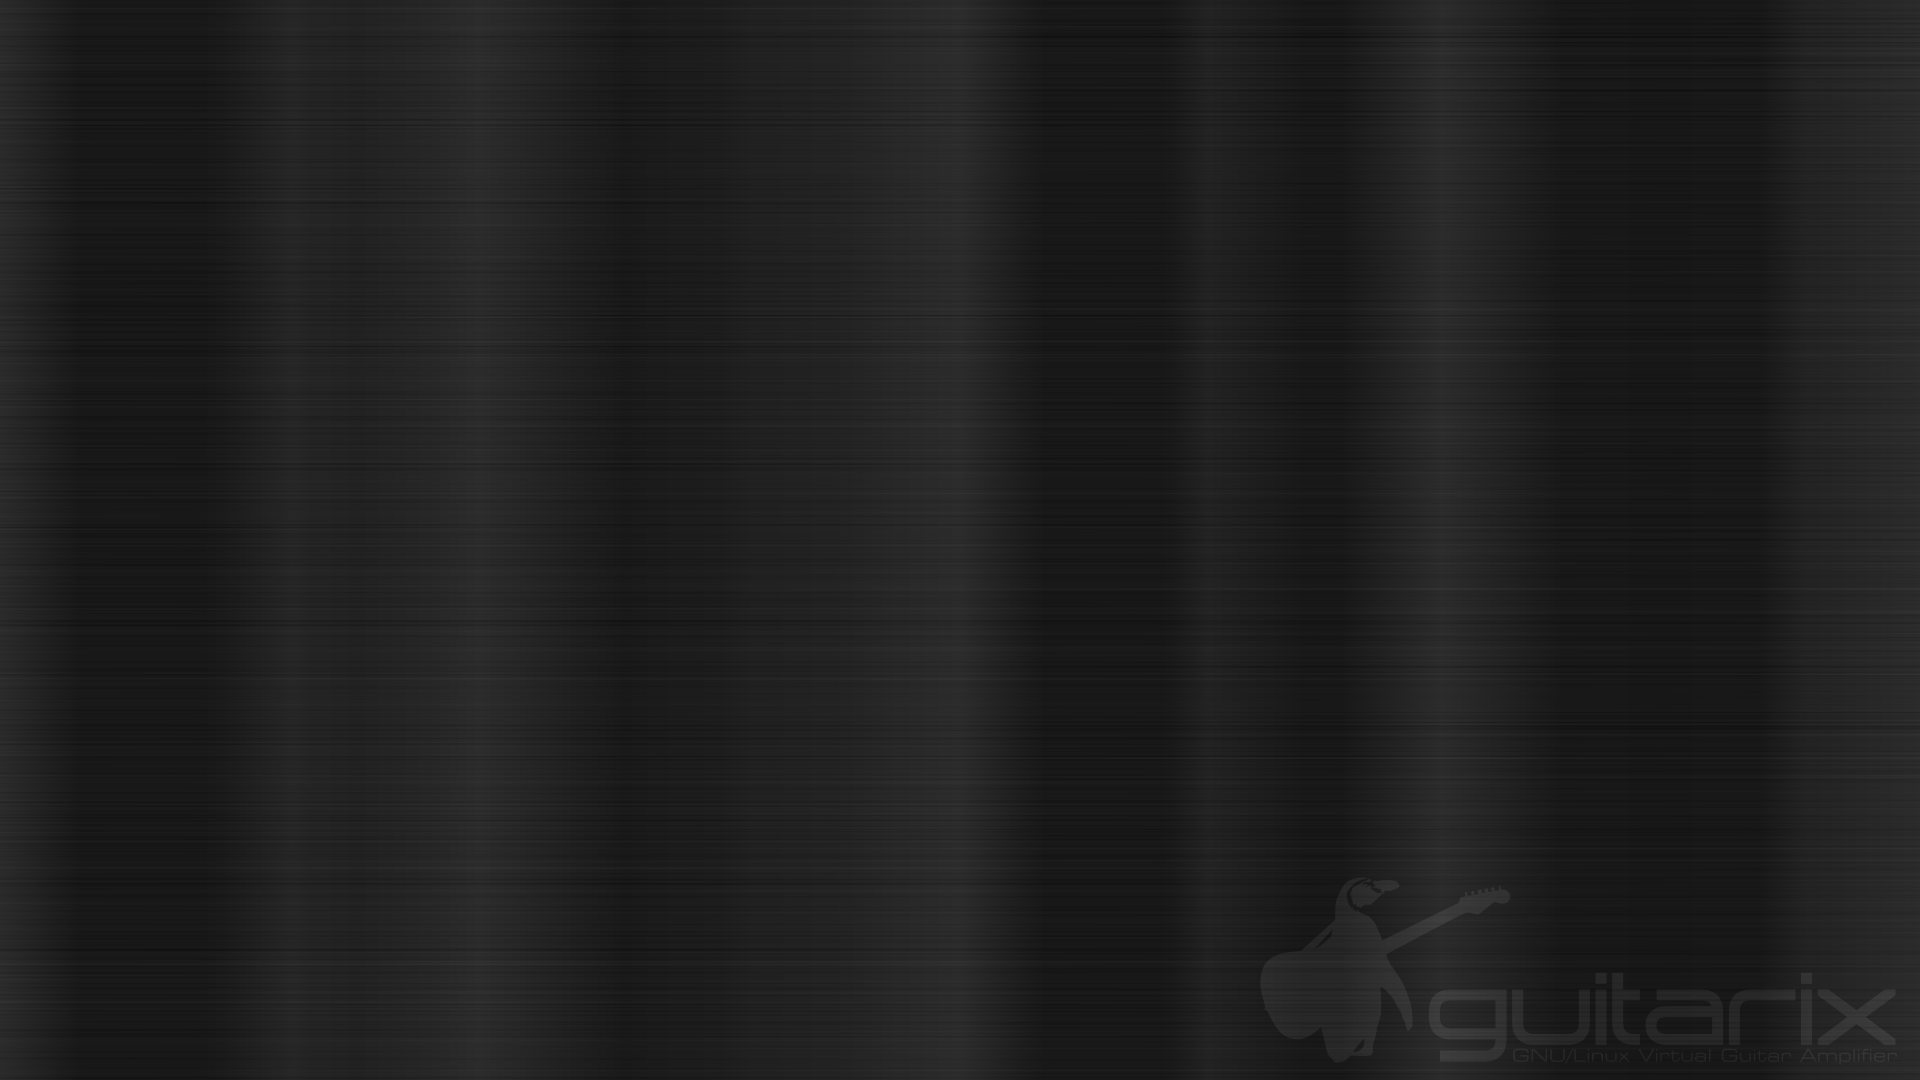
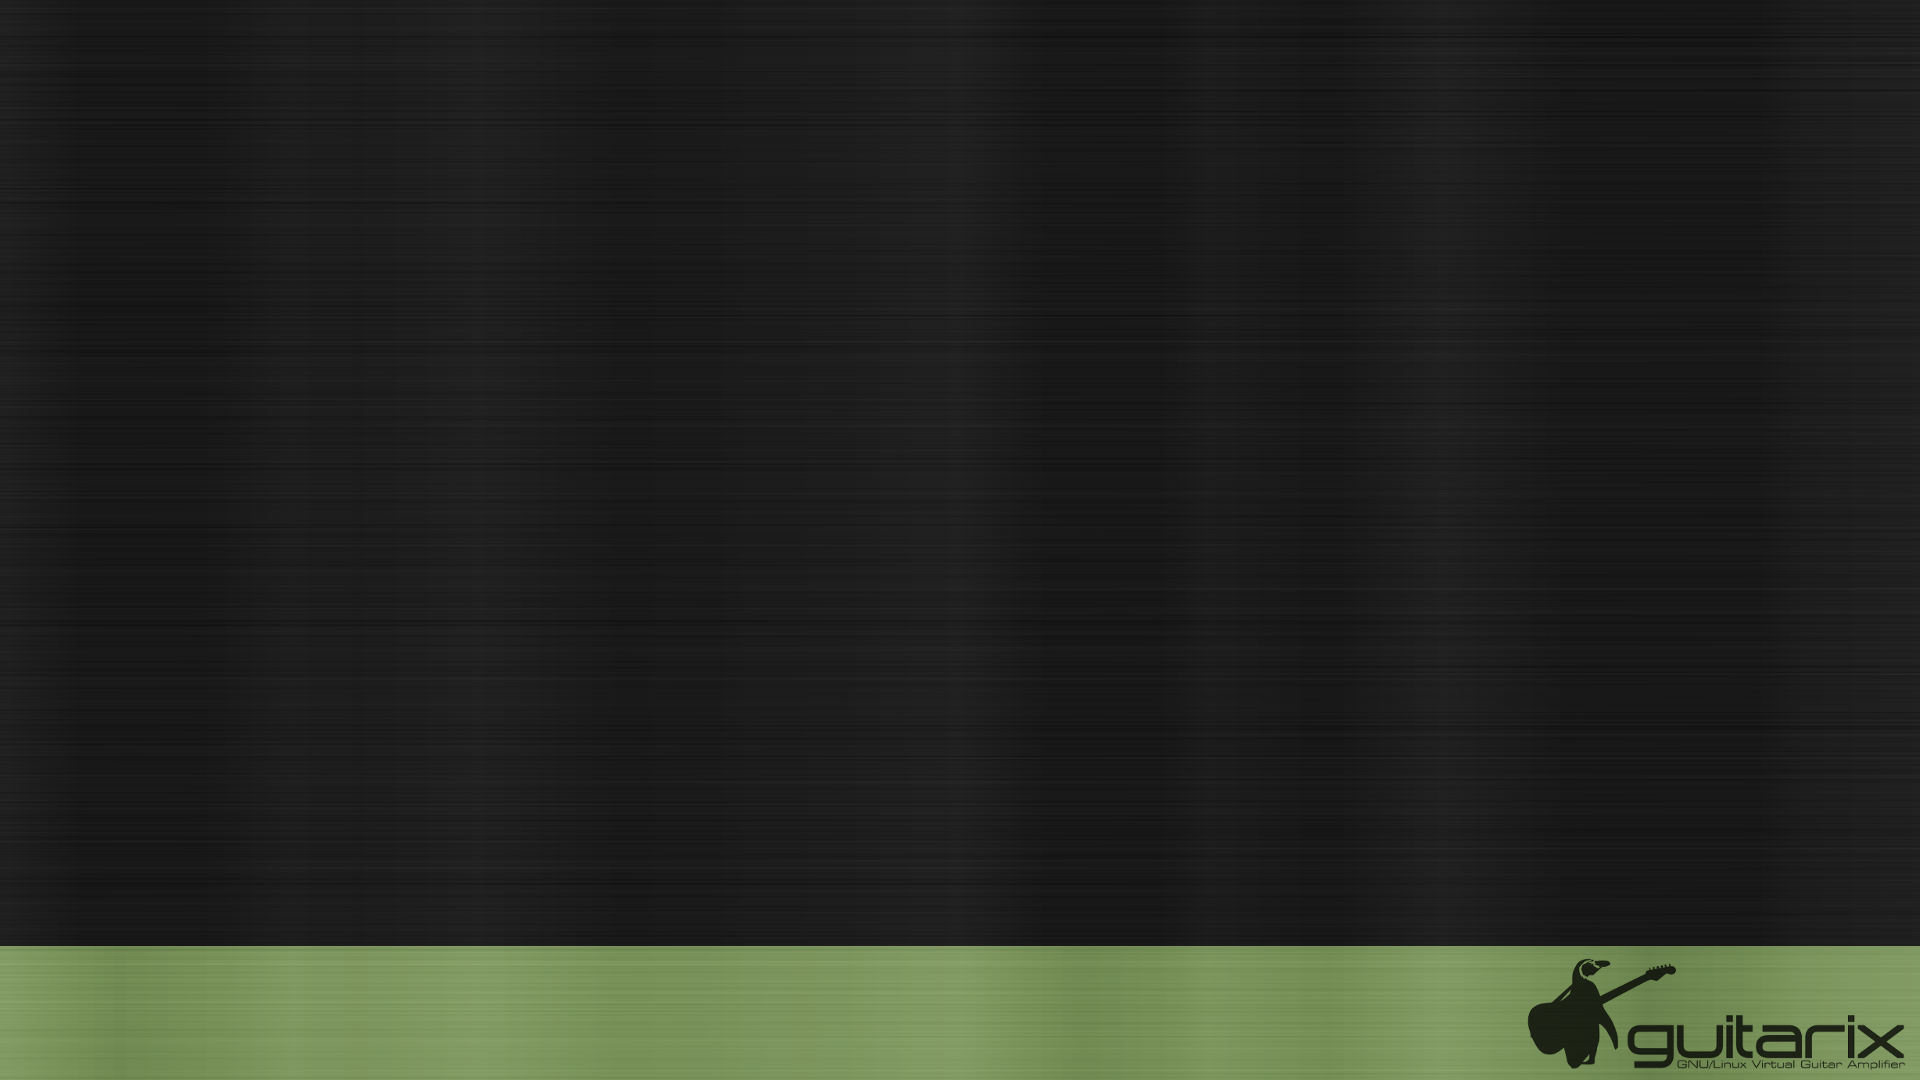
Add themed wallpapers for live view (still a bit broken due to wrong colours after render)

Changed region(s): [[0.0, 0.825, 1.0, 1.0]]

diff --git a/trunk/libgxw/gxw/GxPaintBox.cpp b/trunk/libgxw/gxw/GxPaintBox.cpp
@@ -792,7 +792,7 @@ static void live_box_expose (GtkWidget *wi, GdkEventExpose *ev) {
 			stock_image,wi->allocation.width ,wi->allocation.height , GDK_INTERP_NEAREST);
         g_object_unref(stock_image);
     }
-	cairo_set_operator(cr, CAIRO_OPERATOR_OVER);
+	//cairo_set_operator(cr, CAIRO_OPERATOR_OVER);
 
 	guchar *pb_pixel = gdk_pixbuf_get_pixels (paintbox->gxr_image);
 	gint pixbuf_rowstride = gdk_pixbuf_get_rowstride (paintbox->gxr_image);
@@ -800,7 +800,7 @@ static void live_box_expose (GtkWidget *wi, GdkEventExpose *ev) {
 	gint height = gdk_pixbuf_get_height (paintbox->gxr_image);
 	cairo_surface_t *s_image =
 		cairo_image_surface_create_for_data
-		(pb_pixel,CAIRO_FORMAT_RGB24 ,width, height,pixbuf_rowstride);
+		(pb_pixel,CAIRO_FORMAT_ARGB32 ,width, height,pixbuf_rowstride);
 
     cairo_set_source_surface (cr, s_image, 0, 0);
     cairo_paint (cr);
